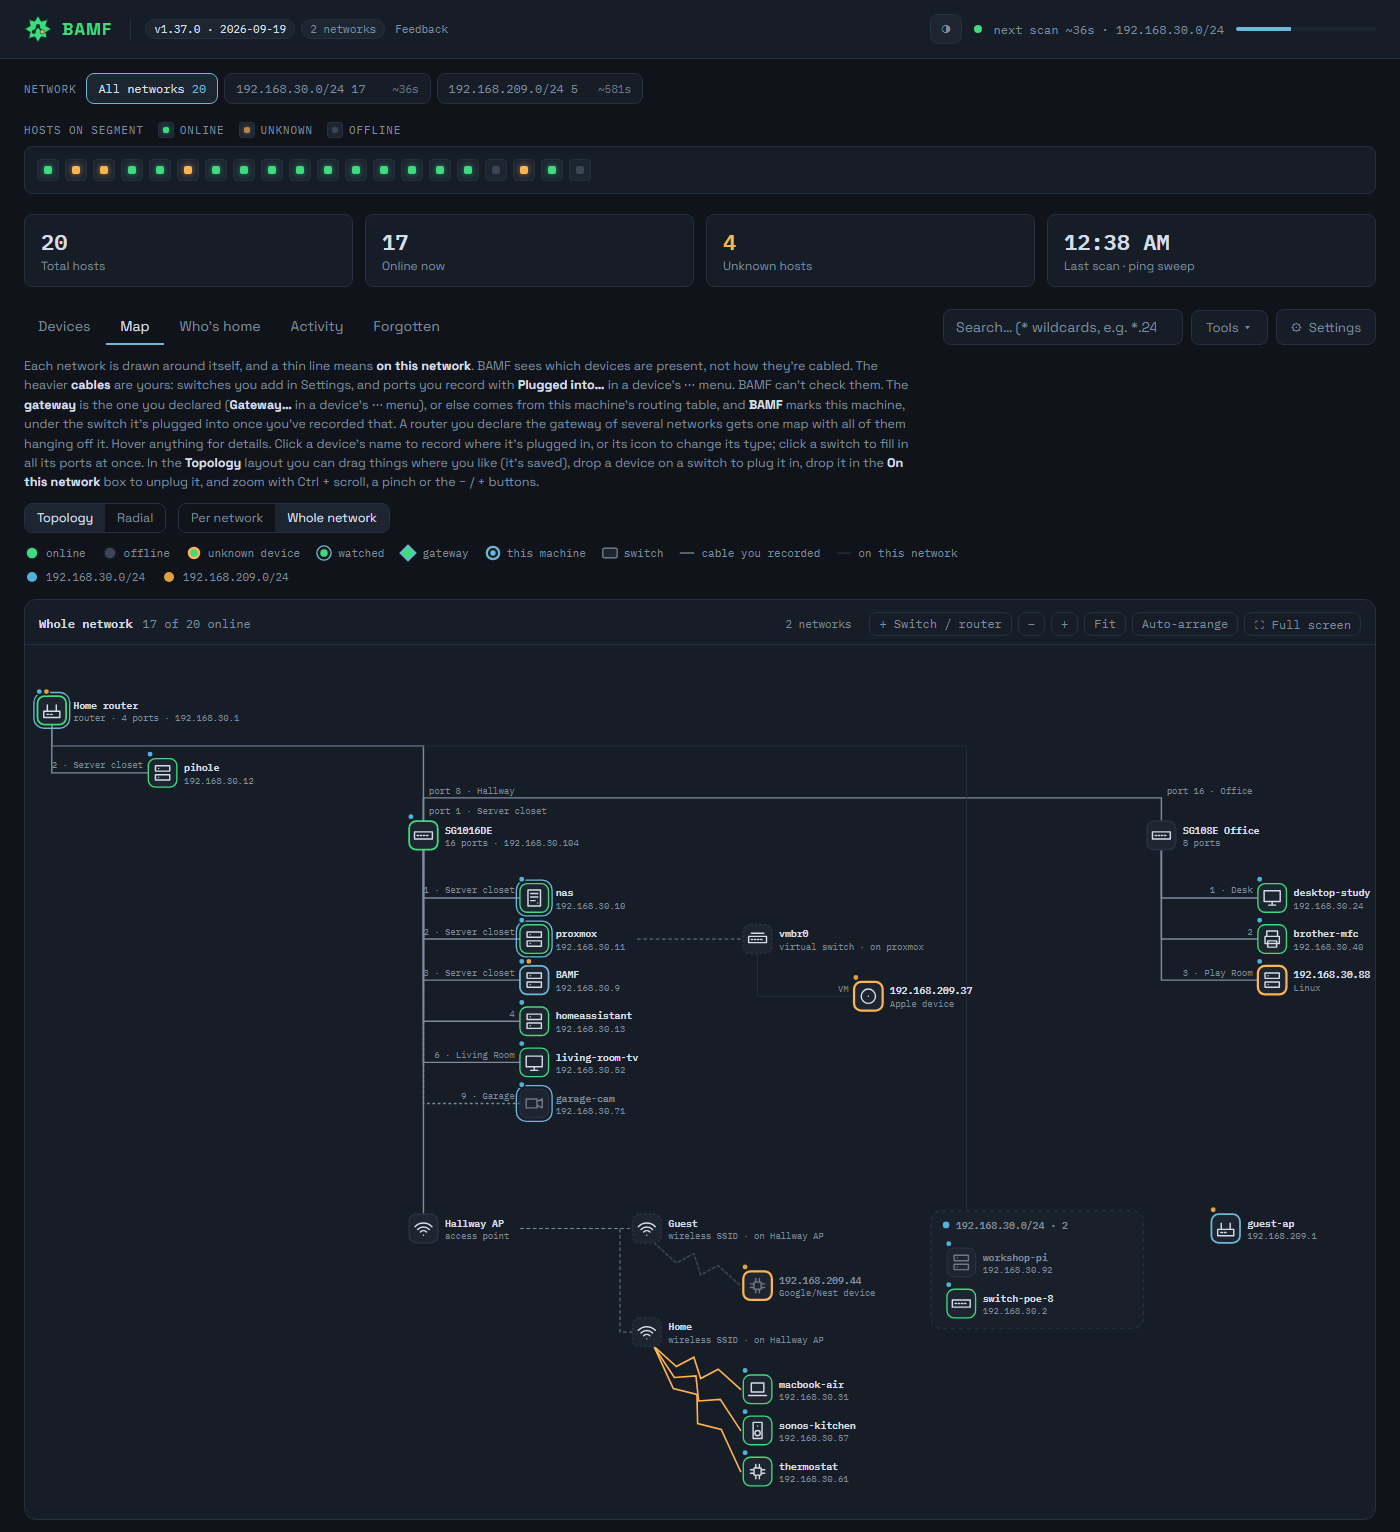
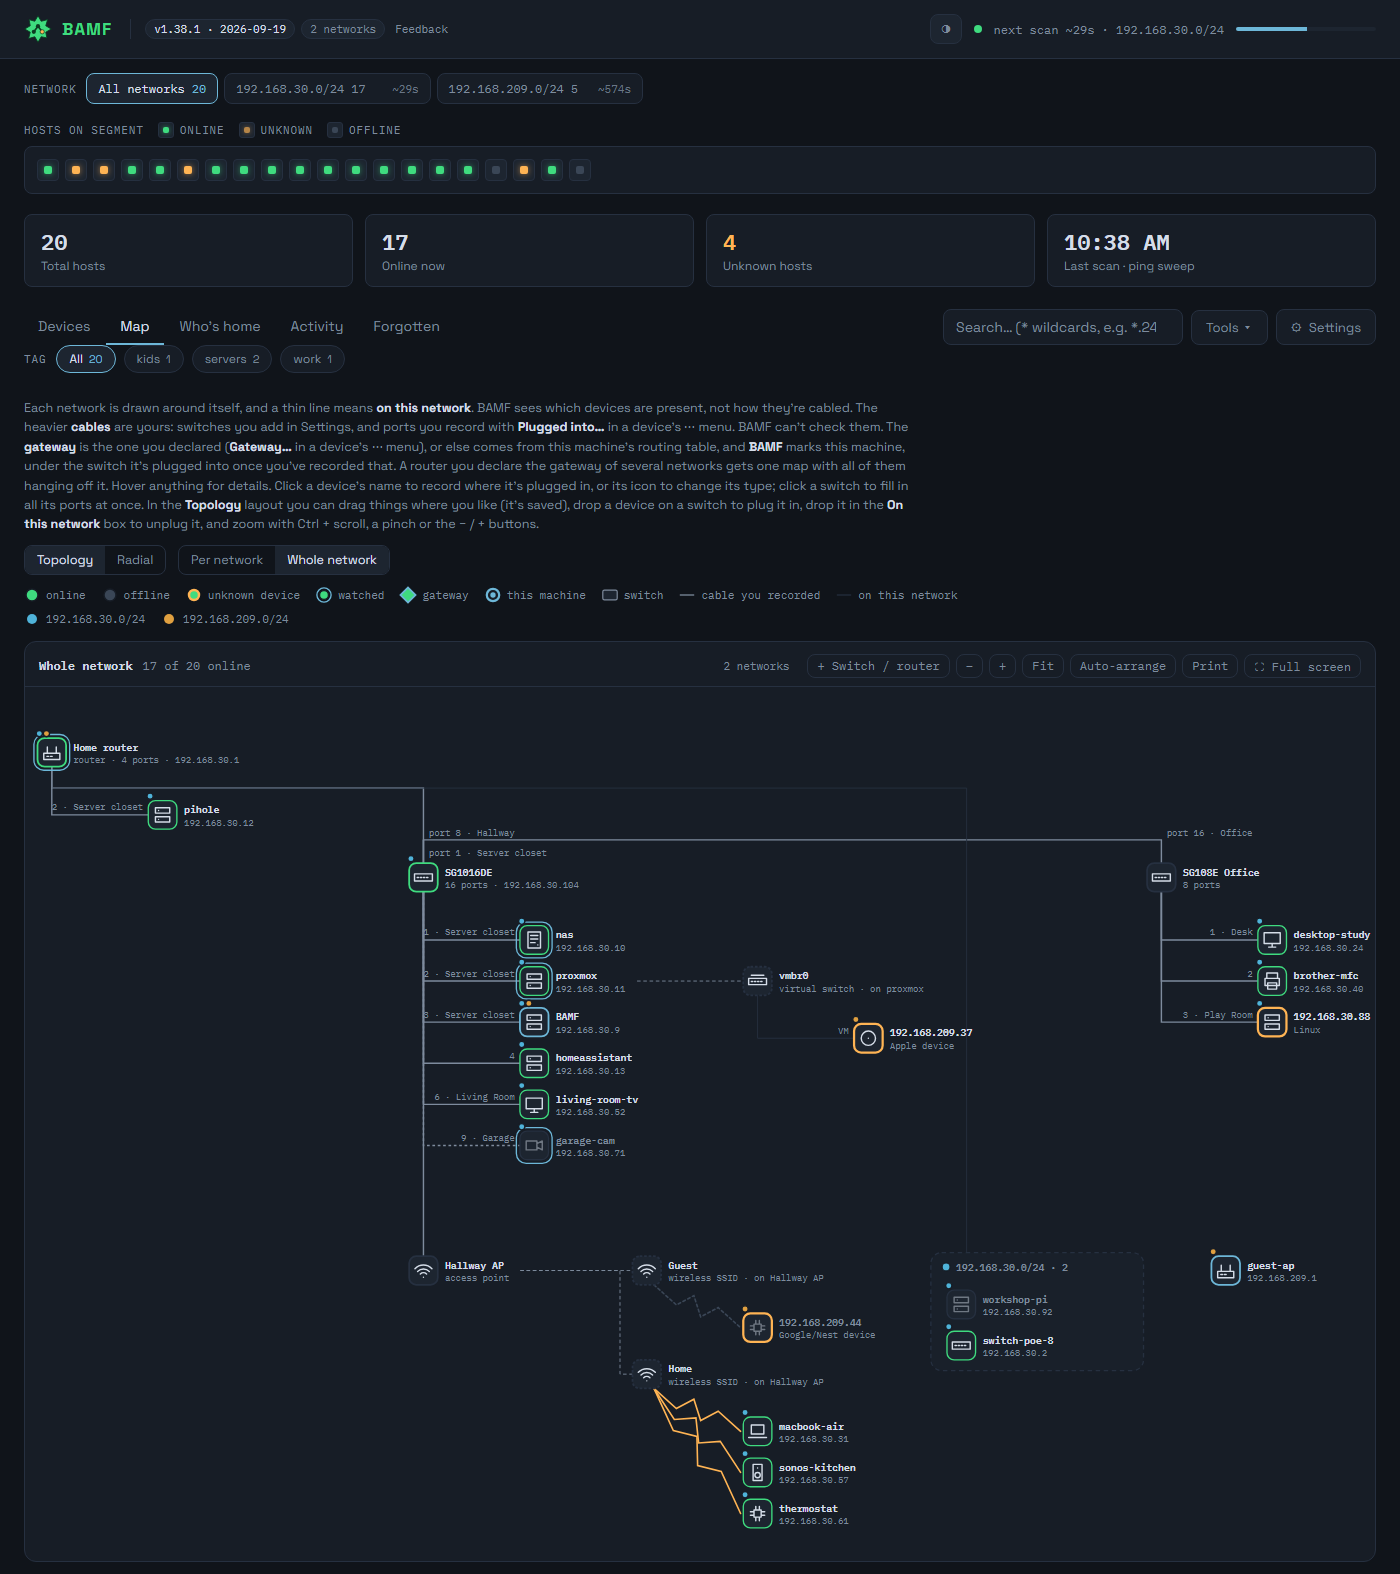
Recapture the README screenshots for 1.38.1 (#147)
The dashboard shows the Latency column, tags and the New tab; Settings
shows the traffic monitor and latency toggles and the layout export and
import; the Map is the same layout as before with the tag bar above it.

diff --git a/README.md b/README.md
@@ -13,7 +13,7 @@ serves a dashboard on port 8840.
 [![License: MIT](https://img.shields.io/badge/license-MIT-blue)](LICENSE)
 ![Platforms](https://img.shields.io/badge/platform-Windows%20%7C%20Linux-lightgrey)
 
-![The BAMF dashboard: every device on two networks, with vendor, device guess and 24-hour history](docs/dashboard.png)
+![The BAMF dashboard: every device on two networks, with vendor, device guess, 24-hour history and latency, tags under device names, and a New tab counting recent arrivals](docs/dashboard.png)
 
 <sub>Sample data — a demo database, not a real network.</sub>
 
@@ -114,7 +114,7 @@ screen. It works with any switch, including unmanaged ones.
 
 ### Tune it without touching the server
 
-![The Settings tab: scan interval, probe concurrency, history retention, an on/off switch and scan interval per network, the recorded switches, access point and SSIDs, and the instant toggles for active ARP, randomised MACs, Holiday Spirit and update checks](docs/settings.png)
+![The Settings tab: scan interval, probe concurrency, history retention, an on/off switch and scan interval per network, the recorded switches, access point and SSIDs with layout export and import, and the instant toggles for active ARP, randomised MACs, the traffic monitor, latency measuring, Holiday Spirit and update checks](docs/settings.png)
 
 Scan cadence, probe concurrency and history retention are editable from the
 dashboard and applied on the next scan — no restart, no editing a file over SSH.
